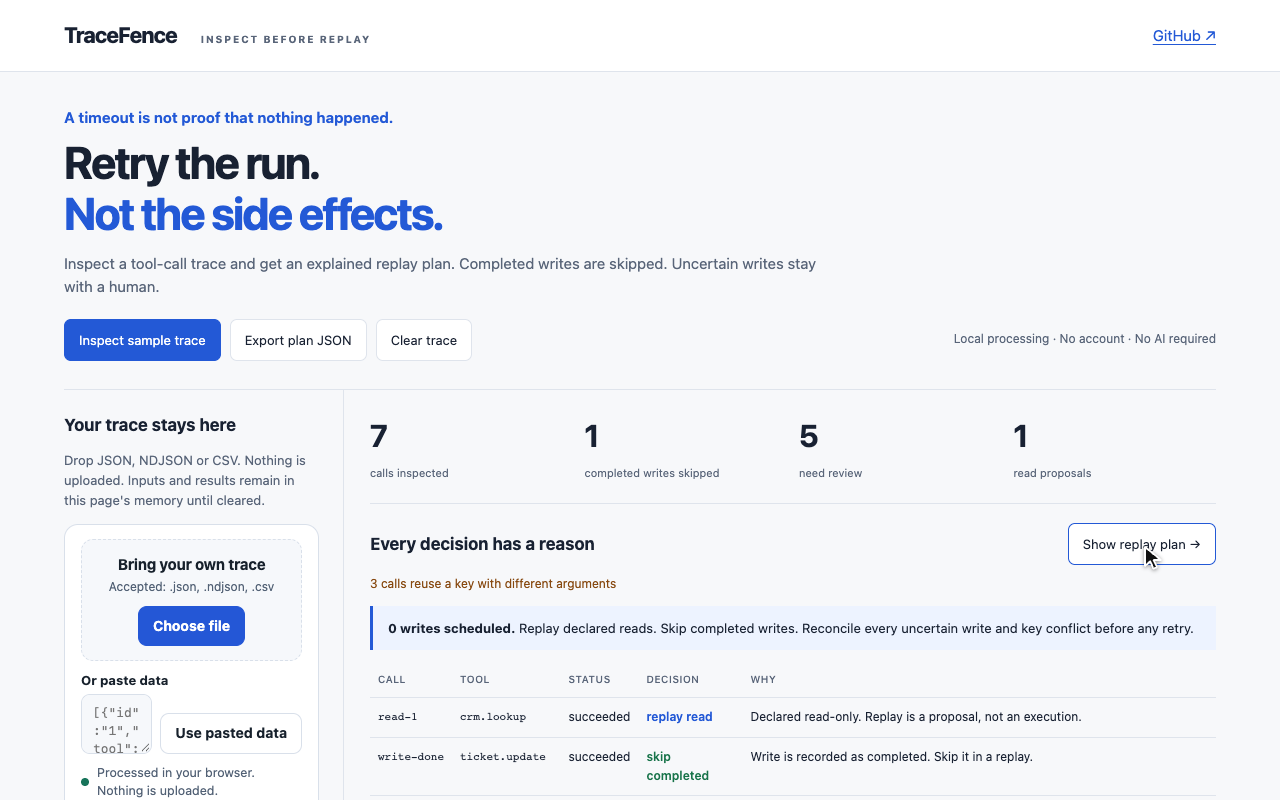
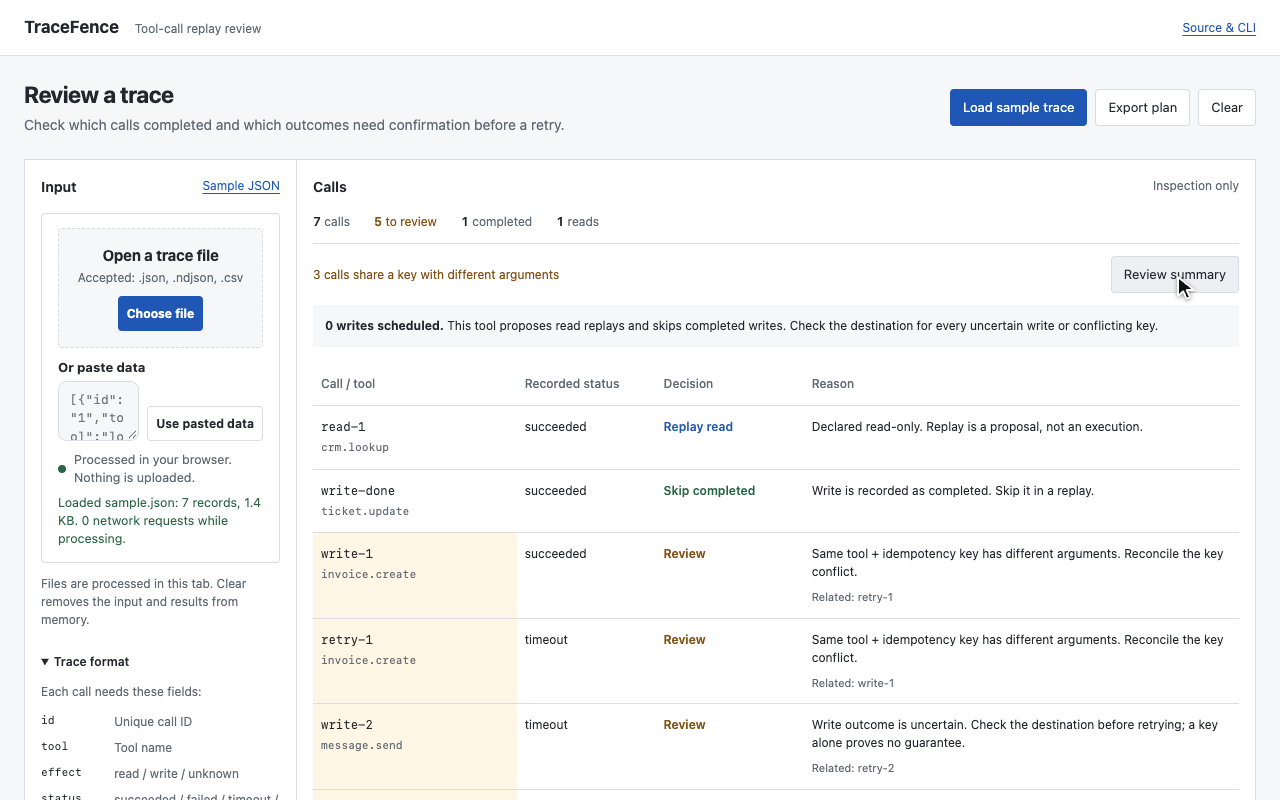
Replace promotional framing with a trace review workspace
Apply prose and rendered design review. Keep tool-call inspection rules, local inputs and export behavior; fix input contrast in dark mode and reduce phone layout overhead.

Agent-Thread: 01a17ee0-bb36-7a81-9037-816e7d830b1d

diff --git a/public/styles.css b/public/styles.css
@@ -1,1 +1,117 @@
-:root{color-scheme:light dark;--bg:#f7f8fa;--surface:#fff;--ink:#182132;--muted:#596579;--line:#dfe4ec;--blue:#2359d6;--tint:#edf3ff;--warning:#874910}*{box-sizing:border-box}body{margin:0;background:var(--bg);color:var(--ink);font:15px/1.55 -apple-system,BlinkMacSystemFont,'Segoe UI',sans-serif}header{height:72px;display:flex;align-items:center;justify-content:space-between;border-bottom:1px solid var(--line);padding:0 5vw;background:var(--surface)}a{color:var(--blue);text-underline-offset:3px}.brand{font-size:22px;letter-spacing:-.8px;font-weight:750;color:var(--ink);text-decoration:none}.brand span{font-size:10px;letter-spacing:1.8px;color:var(--muted);margin-left:20px}main{max-width:1440px;padding:30px 5vw;margin:auto}.intro{padding:4px 0 28px}.eyebrow{color:var(--blue);font-weight:650;margin:0 0 8px}h1{font-size:45px;line-height:1.12;letter-spacing:-1.8px;margin:0 0 14px}h1 span{color:var(--blue)}.intro>p:not(.eyebrow){max-width:780px;color:var(--muted);margin:0 0 20px}h2{font-size:17px;margin:0 0 12px}button{font:inherit;font-size:13px;border:1px solid var(--line);background:var(--surface);color:var(--ink);border-radius:7px;padding:10px 14px;cursor:pointer}button:hover{border-color:var(--blue)}button:focus-visible,a:focus-visible,summary:focus-visible{outline:3px solid #8fb3ff;outline-offset:3px}button:disabled{opacity:.45;cursor:default}.primary{background:var(--blue);color:#fff;border-color:var(--blue)}.toolbar{display:flex;gap:9px;align-items:center;flex-wrap:wrap}.local{color:var(--muted);font-size:12px;margin-left:auto}.layout{display:grid;grid-template-columns:280px 1fr;border-block:1px solid var(--line);min-height:380px}aside{padding:22px 24px 20px 0;border-right:1px solid var(--line)}aside p{font-size:13px;color:var(--muted);margin:0 0 14px}byo-data{display:block;margin-bottom:15px}details{font-size:12px;margin:16px 0}summary{cursor:pointer;color:var(--blue)}code{font:12px ui-monospace,monospace}.fine{font-size:11px}.analysis{padding:22px 0 22px 26px;min-width:0}#empty{display:grid;place-content:center;text-align:center;min-height:300px;color:var(--muted)}#empty p{max-width:400px}.empty-icon{font-size:54px;color:var(--blue)}.metrics{display:grid;grid-template-columns:repeat(4,1fr);gap:12px;border-bottom:1px solid var(--line);padding-bottom:20px}.metrics b{display:block;font-size:31px;letter-spacing:-1px}.metrics span{font-size:11px;color:var(--muted)}.section-title{display:flex;justify-content:space-between;align-items:center;margin:19px 0 8px}.section-title h2{margin:0}.warning{font-size:12px;color:var(--warning);margin:10px 0}#plan{background:var(--tint);border-left:3px solid var(--blue);padding:12px 15px;font-size:13px;margin:12px 0}.table-wrap{overflow:auto}table{border-collapse:collapse;width:100%;font-size:12px;text-align:left}th{color:var(--muted);font-weight:500;font-size:10px;text-transform:uppercase;letter-spacing:.5px}th,td{padding:10px 8px;border-bottom:1px solid var(--line);vertical-align:top}td:nth-child(1),td:nth-child(2){font:11px/1.6 ui-monospace,monospace;white-space:nowrap}.decision{font-weight:600;min-width:95px}.review{color:var(--warning)}.skip_completed{color:#177349}.replay_read{color:var(--blue)}small{display:block;color:var(--muted);font-size:10px;margin-top:4px}footer{font-size:11px;color:var(--muted);padding:16px 0} [hidden]{display:none!important}@media(max-width:800px){main{padding:24px 20px}.layout{grid-template-columns:1fr}.brand span{display:none}aside{border-right:0;border-bottom:1px solid var(--line);padding-right:0}.analysis{padding-left:0}.local{margin-left:0}h1{font-size:36px}.metrics{grid-template-columns:repeat(2,1fr)}}@media(prefers-color-scheme:dark){:root{--bg:#111722;--surface:#182132;--ink:#e5ecf5;--muted:#a5b2c5;--line:#344055;--blue:#8bb1ff;--tint:#1c2c4c;--warning:#f3bd75}.primary{background:#3469d9;color:white}.skip_completed{color:#77d8ac}}
+/* Trace review workspace. Input and call decisions share the page.
+   System fonts and restrained status colours; no decorative motion. */
+:root {
+  color-scheme: light dark;
+  --bg: #f6f7f8;
+  --surface: #ffffff;
+  --ink: #23272c;
+  --muted: #606972;
+  --line: #d9dde2;
+  --blue: #2056b4;
+  --hover: #edf0f3;
+  --focus: #5684d4;
+  --review: #805014;
+  --review-bg: #fff6e5;
+  --done: #286445;
+  --font: -apple-system, BlinkMacSystemFont, 'Segoe UI', sans-serif;
+  --mono: ui-monospace, SFMono-Regular, Consolas, monospace;
+  --s1: 4px;
+  --s2: 8px;
+  --s3: 12px;
+  --s4: 16px;
+  --s5: 24px;
+  --s6: 32px;
+}
+* { box-sizing: border-box; }
+html, body { margin: 0; overflow-x: clip; }
+body { background: var(--bg); color: var(--ink); font: 14px/1.5 var(--font); }
+a { color: var(--blue); text-underline-offset: 3px; }
+button, a { -webkit-tap-highlight-color: transparent; }
+button { background: var(--surface); color: var(--ink); border: 1px solid var(--line); border-radius: 4px; padding: var(--s2) var(--s3); font: inherit; font-size: 13px; cursor: pointer; white-space: nowrap; }
+button:hover { background: var(--hover); }
+button:active { background: var(--line); }
+button:disabled { color: var(--muted); opacity: .5; cursor: default; }
+button:focus-visible, a:focus-visible, summary:focus-visible, .table-wrap:focus-visible { outline: 2px solid var(--focus); outline-offset: 3px; }
+.primary { background: var(--blue); border-color: var(--blue); color: var(--surface); }
+.primary:hover { background: var(--blue); opacity: .9; }
+.primary:active { opacity: .8; }
+.app-header { min-height: 56px; padding: var(--s3) var(--s5); border-bottom: 1px solid var(--line); background: var(--surface); display: flex; align-items: center; justify-content: space-between; gap: var(--s4); }
+.app-header > div { display: flex; align-items: baseline; gap: var(--s4); min-width: 0; }
+.brand { color: var(--ink); font-weight: 700; font-size: 17px; text-decoration: none; white-space: nowrap; }
+.app-description, nav { color: var(--muted); font-size: 12px; }
+nav a { white-space: nowrap; }
+main { padding: var(--s5); max-width: 1600px; margin: auto; }
+.page-heading { display: flex; align-items: center; justify-content: space-between; gap: var(--s5); margin-bottom: var(--s5); }
+h1 { font-size: 23px; line-height: 1.3; letter-spacing: -.4px; margin: 0 0 var(--s1); overflow-wrap: anywhere; }
+.page-heading p { margin: 0; color: var(--muted); max-width: 68ch; }
+.toolbar { display: flex; flex-wrap: wrap; gap: var(--s2); flex-shrink: 0; }
+.layout { display: grid; grid-template-columns: 272px minmax(0, 1fr); border: 1px solid var(--line); background: var(--surface); min-height: 560px; }
+aside { padding: var(--s4); border-right: 1px solid var(--line); min-width: 0; }
+.pane-heading { display: flex; align-items: center; justify-content: space-between; gap: var(--s3); margin-bottom: var(--s4); }
+h2 { font-size: 14px; margin: 0; font-weight: 650; }
+.pane-heading a { font-size: 12px; white-space: nowrap; }
+byo-data {
+  display: block;
+  --byo-bg: var(--surface); --byo-soft: var(--bg); --byo-ink: var(--ink);
+  --byo-muted: var(--muted); --byo-line: var(--line); --byo-accent: var(--blue);
+  --byo-on-accent: var(--surface); --byo-good: var(--done); --byo-radius: 4px;
+  --byo-font: var(--font); --byo-mono: var(--mono);
+}
+byo-data::part(dropzone) { padding: var(--s4) var(--s3); border-radius: 4px; background: var(--bg); }
+byo-data::part(button) { border-radius: 4px; font-family: var(--font); }
+byo-data::part(textarea) { min-width: 0; width: 72px; flex: 1; }
+byo-data::part(button) { padding: var(--s2); font-size: 12px; }
+.input-note { color: var(--muted); font-size: 12px; }
+.format { margin: var(--s5) 0; font-size: 12px; }
+summary { cursor: pointer; font-weight: 600; }
+.format p { color: var(--muted); }
+dl { display: grid; grid-template-columns: auto minmax(0, 1fr); gap: var(--s2) var(--s3); }
+dt, code { font: 11px/1.5 var(--mono); }
+dd { margin: 0; color: var(--muted); overflow-wrap: anywhere; }
+.analysis { min-width: 0; padding: var(--s4); }
+#empty { max-width: 64ch; padding: var(--s6) var(--s4); color: var(--muted); }
+h3 { margin: 0 0 var(--s2); font-size: 15px; color: var(--ink); }
+#empty p { margin: var(--s2) 0; }
+.trace-summary { display: flex; flex-wrap: wrap; gap: var(--s2) var(--s5); padding: 0 0 var(--s3); border-bottom: 1px solid var(--line); font-size: 12px; color: var(--muted); }
+.trace-summary b { color: var(--ink); font-weight: 650; font-variant-numeric: tabular-nums; }
+.summary-review, .summary-review b { color: var(--review); }
+.review-toolbar { display: flex; align-items: center; justify-content: space-between; gap: var(--s3); margin: var(--s3) 0; }
+.warning { font-size: 12px; color: var(--review); margin: 0; }
+#plan { font-size: 12px; color: var(--ink); background: var(--bg); padding: var(--s3); margin-bottom: var(--s4); }
+.table-wrap { overflow-x: auto; }
+table { border-collapse: collapse; width: 100%; table-layout: fixed; text-align: left; font-size: 12px; }
+th, td { padding: var(--s3) var(--s2); border-bottom: 1px solid var(--line); vertical-align: top; overflow-wrap: anywhere; }
+th { color: var(--muted); font-weight: 500; }
+th:first-child { width: 22%; }
+th:nth-child(2) { width: 15%; }
+th:nth-child(3) { width: 16%; }
+.call-name { display: block; font: 12px/1.5 var(--mono); }
+.tool-name { display: block; color: var(--muted); font: 11px/1.5 var(--mono); margin-top: var(--s1); }
+.decision { font-weight: 600; }
+.review { color: var(--review); }
+.skip_completed { color: var(--done); }
+.replay_read { color: var(--blue); }
+tr[data-action=review] td:first-child { background: var(--review-bg); }
+small { display: block; color: var(--muted); font-size: 11px; margin-top: var(--s2); }
+footer { display: flex; align-items: baseline; justify-content: space-between; gap: var(--s5); font-size: 11px; color: var(--muted); padding-top: var(--s4); }
+footer p { max-width: 90ch; margin: 0; }
+footer a { white-space: nowrap; }
+[hidden] { display: none !important; }
+@media (max-width: 1100px) { .page-heading { align-items: flex-start; flex-direction: column; gap: var(--s3); } }
+@media (max-width: 760px) {
+  main { padding: var(--s3); }
+  .app-header { padding: var(--s3); }
+  .app-description { display: none; }
+  .layout { grid-template-columns: minmax(0, 1fr); }
+  aside { border-right: 0; border-bottom: 1px solid var(--line); }
+  .format { margin: var(--s4) 0; }
+  .review-toolbar { flex-direction: column; align-items: flex-start; }
+  table { min-width: 600px; }
+  footer { flex-direction: column; gap: var(--s2); }
+  .toolbar { flex-shrink: 1; }
+}
+@media (prefers-color-scheme: dark) {
+  :root { --bg: #191c21; --surface: #22262c; --ink: #e1e5ea; --muted: #acb4bf; --line: #414852; --blue: #9bbcf8; --hover: #30363e; --focus: #9bbcf8; --review: #e6bd80; --review-bg: #352d23; --done: #95c8aa; }
+  .primary { color: var(--bg); }
+  byo-data { --byo-on-accent: var(--bg); }
+}

diff --git a/public/index.html b/public/index.html
@@ -1,6 +1,56 @@
-<!doctype html><html lang="en"><head><meta charset="utf-8"><meta name="viewport" content="width=device-width,initial-scale=1"><title>TraceFence — inspect before replay</title><meta name="description" content="Inspect agent tool-call traces locally. Find uncertain writes and idempotency conflicts before replaying a run."><link rel="stylesheet" href="styles.css"><script type="module" src="vendor/byo-kit.js"></script><script type="module" src="app.js"></script></head><body>
-<header><a class="brand" href="/">TraceFence <span>INSPECT BEFORE REPLAY</span></a><a href="https://github.com/dallascrilley/tracefence">GitHub ↗</a></header>
-<main><section class="intro"><p class="eyebrow">A timeout is not proof that nothing happened.</p><h1>Retry the run.<br><span>Not the side effects.</span></h1><p>Inspect a tool-call trace and get an explained replay plan. Completed writes are skipped. Uncertain writes stay with a human.</p><div class="toolbar"><button id="sample" class="primary">Inspect sample trace</button><button id="download" disabled>Export plan JSON</button><button id="reset">Clear trace</button><span class="local">Local processing · No account · No AI required</span></div></section>
-<div class="layout"><aside><h2>Your trace stays here</h2><p>Drop JSON, NDJSON or CSV. Nothing is uploaded. Inputs and results remain in this page's memory until cleared.</p><byo-data label="Bring your own trace" accept=".json,.ndjson,.csv" max-bytes="5242880" paste-placeholder='[{"id":"1","tool":"lookup","effect":"read","status":"succeeded","arguments":{}}]'></byo-data><details><summary>Input format</summary><p>Each row needs a unique <code>id</code>, <code>tool</code>, declared <code>effect</code> (read/write/unknown), <code>status</code> (succeeded/failed/timeout/unknown), and an <code>arguments</code> object. Optional: <code>idempotency_key</code>.</p><p>CSV: use a JSON object string in the arguments cell. Effects must be supplied explicitly.</p></details><p class="fine">The tool trusts the trace's declarations. It does not verify destination state, infer permissions, execute calls or guarantee exactly-once delivery.</p></aside>
-<section class="analysis" aria-live="polite"><div id="empty"><div class="empty-icon">↻</div><h2>What will happen if you replay?</h2><p>Start with the sample: an invoice succeeded, a notification timed out, then a retry reused the wrong key.</p></div><div id="workspace" hidden><div class="metrics"><div><b id="total">0</b><span>calls inspected</span></div><div><b id="skipped">0</b><span>completed writes skipped</span></div><div><b id="review">0</b><span>need review</span></div><div><b id="reads">0</b><span>read proposals</span></div></div><div class="section-title"><h2>Every decision has a reason</h2><button id="reveal" disabled>Show replay plan →</button></div><p id="conflicts" class="warning"></p><div id="plan" hidden><strong>0 writes scheduled.</strong><span> Replay declared reads. Skip completed writes. Reconcile every uncertain write and key conflict before any retry.</span></div><div class="table-wrap"><table><thead><tr><th>Call</th><th>Tool</th><th>Status</th><th>Decision</th><th>Why</th></tr></thead><tbody id="results"></tbody></table></div></div></section></div>
-<footer>Deterministic rules. Inspectable output. <a href="sample.json" download>Download sample</a> · <a href="https://github.com/dallascrilley/tracefence#input-contract">Input contract &amp; limits</a></footer></main></body></html>
+<!doctype html>
+<html lang="en">
+<head>
+  <meta charset="utf-8">
+  <meta name="viewport" content="width=device-width,initial-scale=1">
+  <title>TraceFence | Tool-call replay review</title>
+  <meta name="description" content="Review completed and uncertain tool calls before replaying an agent run. JSON, NDJSON and CSV stay in your browser.">
+  <link rel="icon" href="data:,">
+  <link rel="stylesheet" href="styles.css">
+  <script type="module" src="vendor/byo-kit.js"></script>
+  <script type="module" src="app.js"></script>
+</head>
+<body>
+  <header class="app-header">
+    <div><a class="brand" href="/">TraceFence</a><span class="app-description">Tool-call replay review</span></div>
+    <nav aria-label="Project"><a href="https://github.com/dallascrilley/tracefence">Source &amp; CLI</a></nav>
+  </header>
+  <main>
+    <div class="page-heading">
+      <div><h1>Review a trace</h1><p>Check which calls completed and which outcomes need confirmation before a retry.</p></div>
+      <div class="toolbar"><button id="sample" class="primary">Load sample trace</button><button id="download" disabled>Export plan</button><button id="reset">Clear</button></div>
+    </div>
+    <div class="layout">
+      <aside aria-labelledby="input-heading">
+        <div class="pane-heading"><h2 id="input-heading">Input</h2><a href="sample.json" download>Sample JSON</a></div>
+        <byo-data label="Open a trace file" accept=".json,.ndjson,.csv" max-bytes="5242880" paste-placeholder='[{"id":"1","tool":"lookup","effect":"read","status":"succeeded","arguments":{}}]'></byo-data>
+        <p class="input-note">Files are processed in this tab. Clear removes the input and results from memory.</p>
+        <details class="format">
+          <summary>Trace format</summary>
+          <p>Each call needs these fields:</p>
+          <dl><dt>id</dt><dd>Unique call ID</dd><dt>tool</dt><dd>Tool name</dd><dt>effect</dt><dd>read / write / unknown</dd><dt>status</dt><dd>succeeded / failed / timeout / unknown</dd><dt>arguments</dt><dd>JSON object</dd></dl>
+          <p><code>idempotency_key</code> is optional. In CSV, store <code>arguments</code> as a JSON string.</p>
+        </details>
+        <p class="input-note">Effects and outcomes come from your trace. Confirm uncertain writes in the destination system before retrying.</p>
+      </aside>
+      <section class="analysis" aria-labelledby="review-heading">
+        <div class="pane-heading"><h2 id="review-heading">Calls</h2><span class="input-note">Inspection only</span></div>
+        <div id="empty">
+          <h3>No trace loaded</h3>
+          <p>The sample contains seven calls: an invoice retry, a completed ticket update and a notification with an unknown outcome.</p>
+          <p>Load it to review the decisions, or open your own trace.</p>
+        </div>
+        <div id="workspace" hidden>
+          <div class="trace-summary" aria-live="polite"><span><b id="total">0</b> calls</span><span class="summary-review"><b id="review">0</b> to review</span><span><b id="skipped">0</b> completed</span><span><b id="reads">0</b> reads</span></div>
+          <div class="review-toolbar"><p id="conflicts" class="warning"></p><button id="reveal" disabled>Review summary</button></div>
+          <div id="plan" hidden><strong>0 writes scheduled.</strong> This tool proposes read replays and skips completed writes. Check the destination for every uncertain write or conflicting key.</div>
+          <div class="table-wrap" tabindex="0" role="region" aria-label="Tool-call decisions">
+            <table><thead><tr><th scope="col">Call / tool</th><th scope="col">Recorded status</th><th scope="col">Decision</th><th scope="col">Reason</th></tr></thead><tbody id="results"></tbody></table>
+          </div>
+        </div>
+      </section>
+    </div>
+    <footer><p>TraceFence uses the effects and statuses you supply. It cannot confirm what happened in another system and never executes a call.</p><a href="https://github.com/dallascrilley/tracefence#input-contract">Input contract and limits</a></footer>
+  </main>
+</body>
+</html>

diff --git a/public/app.js b/public/app.js
@@ -1,5 +1,9 @@
 import { inspectTrace } from './src/standout.js';
 let report;
+const narrow = matchMedia('(max-width: 760px)');
+function prepareViewport() { document.querySelector('.format').open = !narrow.matches; }
+prepareViewport();
+narrow.addEventListener('change', prepareViewport);
 const $ = selector => document.querySelector(selector);
 const data = $('byo-data');
 data.validate = rows => { try { inspectTrace(rows); return []; } catch(error) { return [error.message]; } };
@@ -7,15 +11,17 @@ function text(tag, value, cls) { const el=document.createElement(tag);el.textCon
 function show(rows) {
   report=inspectTrace(rows); $('#empty').hidden=true; $('#workspace').hidden=false;
   for(const key of ['total','skipped','review','reads']) $('#'+key).textContent=report.summary[key];
-  $('#conflicts').textContent=report.summary.key_conflicts+' calls reuse a key with different arguments';
+  $('#conflicts').textContent=report.summary.key_conflicts ? report.summary.key_conflicts+' calls share a key with different arguments' : 'No conflicting keys found';
   $('#results').replaceChildren();
   for(const row of report.calls) {
     const tr=document.createElement('tr');tr.dataset.action=row.action;
-    tr.append(text('td',row.id),text('td',row.tool),text('td',row.status));
-    const decision=text('td',row.action.replaceAll('_',' '),'decision '+row.action);tr.append(decision);
+    const identity=document.createElement('td');identity.append(text('span',row.id,'call-name'),text('span',row.tool,'tool-name'));
+    tr.append(identity,text('td',row.status));
+    const decision=text('td',({review:'Review',skip_completed:'Skip completed',replay_read:'Replay read'})[row.action],'decision '+row.action);tr.append(decision);
     const detail=text('td',row.reason);if(row.related_ids.length)detail.append(text('small','Related: '+row.related_ids.join(', ')));tr.append(detail);$('#results').append(tr);
   }
   $('#download').disabled=false;$('#reveal').disabled=false;$('#plan').hidden=true;
+  if(narrow.matches) $('.format').open=false;
 }
 data.addEventListener('byo-data', event=>show(event.detail.data));
 $('#sample').addEventListener('click',async()=>{const raw=await fetch('./sample.json').then(r=>r.text());await data.load(raw,{name:'sample.json',source:'sample'});});

diff --git a/README.md b/README.md
@@ -1,22 +1,22 @@
 # TraceFence
 
-**Inspect before replaying an agent run.** Find uncertain writes and conflicting idempotency keys without uploading your trace.
+TraceFence reviews agent tool-call logs before a retry. Open a trace to see completed writes, uncertain outcomes and conflicting idempotency keys. Processing runs in your browser.
 
 [Try the live demo](https://tracefence.dallascrilley.com) · [Sample trace](public/sample.json) · [Concept & prior art](docs/CONCEPT.md)
 
 ![Inspect a trace and reveal an explained replay plan](docs/demo.gif)
 
-A timeout does not tell you whether an invoice, ticket update or notification already happened. TraceFence turns a tool-call export into an explained inspection plan:
+A timeout does not tell you whether an invoice, ticket update or notification already happened. TraceFence reads the effects and outcomes recorded in a tool-call export:
 
-- **Replay read:** the producer explicitly declared a read-only operation.
-- **Skip completed:** the write is recorded as successful.
-- **Review:** a write is uncertain, its effect is unknown, or the same tool/key carries different arguments.
+- **Replay read.** the producer explicitly declared a read-only operation.
+- **Skip completed.** the write is recorded as successful.
+- **Review.** a write is uncertain, its effect is unknown, or the same tool/key carries different arguments.
 
-Every decision includes its reason and related call IDs. An idempotency key is never treated as proof that a destination enforces it. No tool is executed.
+The table shows a reason and related call IDs for each decision. An idempotency key is never treated as proof that a destination enforces it. No tool is executed.
 
 ## Try it
 
-Open the demo and choose **Inspect sample trace**, or drop/paste your own JSON, NDJSON or CSV. Export the resulting plan as JSON. Processing is entirely in your browser; traces are held only in page memory, and **Clear trace** removes the input and result. No account, server upload, API key or AI model is required.
+Open the demo and choose **Load sample trace**, or drop/paste your own JSON, NDJSON or CSV. Export the resulting plan as JSON. Processing is entirely in your browser; traces are held only in page memory, and **Clear** removes the input and result. No account, server upload, API key or AI model is required.
 
 ```sh
 node bin/tracefence.js --json public/sample.json
@@ -35,7 +35,7 @@ Required: unique string `id`, string `tool`, `effect` (`read`, `write`, `unknown
 
 Tool+key scopes key conflicts; canonical JSON compares argument objects independently of key ordering. Arrays retain their order. Related calls share the same tool and arguments, which may represent intentional repeated work: relatedness alone is not evidence of a duplicate effect.
 
-**Limits:** effect labels and statuses are assertions from the producer. A claimed read can still be dangerous if mislabeled. This tool does not query the destination, validate permissions, execute replays, prove exactly-once behavior, estimate money saved or infer causality. Reconcile uncertain external effects against their owning system before retrying. There is no automatic OpenTelemetry/LangSmith adapter yet; use the documented normalized format.
+Effect labels and statuses come from the trace producer. A claimed read can still be dangerous if mislabeled. This tool does not query the destination, validate permissions, execute replays, prove exactly-once behavior, estimate money saved or infer causality. Reconcile uncertain external effects against their owning system before retrying. There is no automatic OpenTelemetry/LangSmith adapter yet; use the documented normalized format.
 
 ## Develop and verify
 
@@ -53,4 +53,4 @@ Depot runs `script/cibuild` on each source push. Unit/CLI tests cover the actual
 
 ## Status
 
-Initial public release: browser inspector plus dependency-free CLI. The included trace is synthetic and clearly labeled. No claim of external adoption, production incident reduction or independently verified trace declarations. MIT licensed; built with [byo-kit](https://github.com/dallascrilley/byo-kit).
+Initial public release: browser inspector plus dependency-free CLI. The included trace is synthetic and clearly labeled. The rules operate on supplied trace data. MIT licensed. Built with [byo-kit](https://github.com/dallascrilley/byo-kit).

diff --git a/docs/VERIFICATION.md b/docs/VERIFICATION.md
@@ -2,8 +2,8 @@
 
 2026-10-27. Initial release. The example is synthetic, not a customer incident.
 
-Ten Node tests check actual rules and the CLI, including uncertain writes, key conflicts, argument normalization, unknown effects, malformed input and the invariant that the planner never schedules a write. `smoke.mjs` uses real Chrome/Playwright: sample, local data with zero network requests, invalid input, inert HTML text, export, clear, mobile viewport.
+Twelve Node tests check actual rules and the CLI, including uncertain writes, key conflicts, argument normalization, unknown effects, malformed input and the invariant that the planner never schedules a write. `smoke.mjs` uses real Chrome/Playwright: sample, local data with zero network requests, invalid input, inert HTML text, export, clear, mobile viewport.
 
-The README GIF is 8.08 seconds, recorded from that functioning UI. The last frame was visually inspected. The useful core needs no model or external account. The browser proof does not verify the producer's claims about actual external effects.
+The README GIF was recorded again after the copy and layout revision. Its measured duration and source digest are in the release verification receipt. The final frame and the full interaction sequence were inspected. The useful core needs no model or external account. The browser proof does not verify the producer's claims about actual external effects.
 
 `npm run verify` binds a local source digest to tests, browser proof and GIF. Depot's `script/cibuild` runs the portable unit/CLI tests on the published commit. These are separate proof layers. A live Cloudflare browser run is recorded privately with release receipts when performed.

diff --git a/docs/DESIGN_REVIEW.md b/docs/DESIGN_REVIEW.md
@@ -1,0 +1,11 @@
+# Copy and interface review
+
+2026-10-27. Scope: README, main page, labels, input states and recorded demo. This revision follows the author's rejection of the original slogan and layout.
+
+Applied the unslop writing skill and relevant Hallmark design guidance. The first version led with “Retry the run. Not the side effects.” and a large marketing header. The revision opens with “Review a trace” and puts a call table beside the input. Counts are a small summary row; colour indicates review or completion. The replay rules and input contract are unchanged.
+
+The reviewer inspected desktop, phone, empty and dark renders. The dark render exposed an input-component contrast issue; shared colour variables now match the page. The format guide collapses on phones. Actual Chrome checks at 320, 375, 414, 768 and 1280 px found no page overflow and rendered all seven sample calls. The table has its own horizontal scroll area at narrow sizes. Tests also cover invalid input, local data, export and clearing.
+
+The demo was recorded again and its interaction sequence was inspected. It shows loading the sample and opening the summary, with the actual decisions visible. Local file processing generates no network requests; loading the bundled sample makes a same-origin request. Unit and browser checks validate behavior. They do not decide whether the design meets a user's taste.
+
+Remaining limit: the revised presentation awaits the user's response. This review is an author review, not a claim of user acceptance. The useful outcome is an explained review of supplied trace data; uncertain writes still require checking the destination.

diff --git a/docs/CONCEPT.md b/docs/CONCEPT.md
@@ -11,6 +11,6 @@ Alternatives considered:
 
 No AI call is needed for exact status/key comparisons. This avoids making a model decide whether a money-moving retry is safe. No inferred effect labels, execution, account setup or upload. Inputs are supplied declarations, not verified destination facts. Read-only declarations must be trustworthy before a real replay.
 
-Design: neutral application shell, blue primary action, input pane and decision table; sample-first journey; browser memory only. Source fallback: byo-kit because this dedicated Cloudflare deployment uses a different adapter from App Foundry's accepted Netlify route. Domain logic is pure and separate from presentation.
+Design: compact input pane and call table, with a small status summary. The page opens with the task name, “Review a trace”. Browser memory holds the supplied data. See docs/DESIGN.md for the correction after Dallas rejected the initial slogan and layout. Source fallback: byo-kit because this dedicated Cloudflare deployment uses a different adapter from App Foundry's accepted Netlify route. Domain logic is pure and separate from presentation.
 
 Acceptance: successful writes skipped; all uncertain writes held regardless of key; argument-order equality; same tool/key with changed arguments holds every member; unknown effects held; own-data journey makes zero requests; source text is inert; JSON export, clear, invalid input, mobile and CLI proven. Stop at inspection, not execution or a full observability platform.

diff --git a/docs/DESIGN.md b/docs/DESIGN.md
@@ -1,0 +1,11 @@
+# TraceFence interface
+
+2026-10-27. Revised after Dallas rejected the original promotional copy and layout.
+
+The user is reviewing a failed agent run. The page should help them inspect calls and keep the input format nearby. We compared a single full-width table with a split input/results workspace and selected the split workspace. It retains room for reasons while users prepare their input.
+
+Use a compact application header, a page title that names the task, an input pane and a call table. Counts belong in a small summary row. Reserve amber for calls that need review and green for completed writes. Use the existing system and monospace fonts; keep processing local and avoid external font requests. No landing-page headline, decorative badge, oversized counter or ornamental animation.
+
+Copy review uses the installed unslop skill. Design review uses applicable Hallmark guidance. Its marketing-page prescriptions do not override an inspection table's need for density, system fonts or consistent status labels. Human judgment and actual rendered states establish quality; keyword scans and self-assigned scores do not.
+
+Check empty, loaded, invalid and cleared input; sample and personal data; export; light/dark; keyboard focus; 320, 375, 414, 768 and desktop widths. The page must stay within the viewport. The call table may scroll within its labeled region on small screens. Show technical limits where they affect replay decisions.
